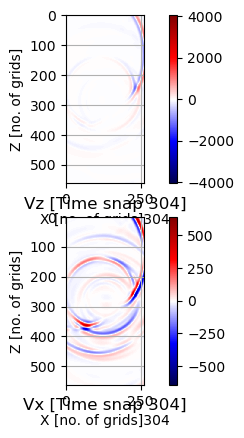
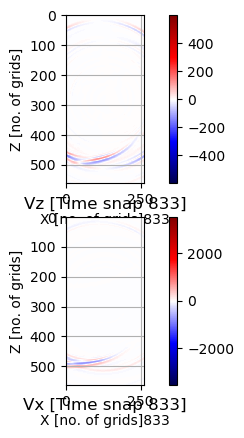
.

diff --git a/scripts/pre_proc_fwi.py b/scripts/pre_proc_fwi.py
@@ -42,12 +42,12 @@ cuda_computation = False # True: computation in GPU, False: in CPU
 # GRID PARAMETERS
 #--------------------------------------------------------------------
 
-x = 15
-z = 30
+x = 30
+z = 60
 
 # Geometric data
 nt = 2500; nz = 601; nx = 301 # grid numbers (adding for PMLs as well)
-dt = 2.35e-5; 
+dt = 4.0e-5; 
 dz = z/(nz-1) #; 
 dx = x/(nx-1) # grid intervals
 
@@ -65,20 +65,19 @@ isurf_top = 0; isurf_bottom = 0; isurf_left = 0; isurf_right = 0
 snap_t1 = 0; snap_t2 = nt-1 # snap in time steps
 snap_z1 = npml_top; snap_z2 = nz-npml_bottom  # snap boundaries z
 snap_x1 = npml_left; snap_x2 = nx-npml_right # snap boundaries x
-snap_dt = 5; snap_dz = 1; snap_dx = 1; # the snap intervals
+snap_dt = 3; snap_dz = 1; snap_dx = 1; # the snap intervals
 
-
+npml_all = 20
 # Taper position
 nz_snap = snap_z2 - snap_z1
 nx_snap = snap_x2 - snap_x1
 
 # taper relative to the total grid
 # t: top, b: bottom, l: left, r: right
-taper_t1 = snap_z1 + np.int32(nz_snap*0.05); taper_t2 = taper_t1 + np.int32(nz_snap*0.1)
-taper_b1 = snap_z2 - np.int32(nz_snap*0.05); taper_b2 = taper_b1 - np.int32(nz_snap*0.1)
-
-taper_l1 = snap_x1 + np.int32(nx_snap*0.05); taper_l2 = taper_l1 + np.int32(nx_snap*0.1)
-taper_r1 = snap_x2 - np.int32(nx_snap*0.05); taper_r2 = taper_r1 - np.int32(nx_snap*0.1)
+taper_t1 = snap_z1 + npml_all; taper_t2 = taper_t1 + npml_all
+taper_b1 = snap_z2 - npml_all; taper_b2 = taper_b1 - npml_all
+taper_l1 = snap_x1 + npml_all; taper_l2 = taper_l1 + npml_all
+taper_r1 = snap_x2 - npml_all; taper_r2 = taper_r1 - npml_all
 
 
 #------------------------------------------------------------------------------
@@ -146,7 +145,7 @@ pml_npower_pml = 2.0
 damp_v_pml = Cp
 rcoef = 0.001
 k_max_pml = 1.0
-freq_pml = 300.0 # PML frequency in Hz
+freq_pml = 200.0 # PML frequency in Hz
 
 # -----------------------------------------------------
 

diff --git a/src/cpu/n_kernel_lib_PSV.cpp b/src/cpu/n_kernel_lib_PSV.cpp
@@ -474,9 +474,9 @@ void fwi_grad2(
             // The time derivatives of the velocity may have to be computed differently
             s4 = ux[iz][ix] * accu_vx[tf][jz][jx] + uz[iz][ix] * accu_vz[tf][jz][jx];
 
-            grad_lam[jz][jx] += snap_dt * dt * s1;
-            grad_mu[jz][jx] += snap_dt * dt * (s3 + s1 + s2);
-            grad_rho[jz][jx] += snap_dt * dt * s4;
+            grad_lam[jz][jx] -= snap_dt * dt * s1;
+            grad_mu[jz][jx] -= snap_dt * dt * (s3 + s1 + s2);
+            grad_rho[jz][jx] -= snap_dt * dt * s4;
             
             jx++;
         }

diff --git a/src/h_simulate_PSV.cpp b/src/h_simulate_PSV.cpp
@@ -180,8 +180,8 @@ void simulate_PSV()
     //read_seismo_src(STF_Z, STF_X, NSRC, NT);
     
     for (int is=0;is<NSRC;is++){
-        wavelet(STF_Z[is], NT, DT, 1.0, h_FREQ_PML, 0.0, 1); // Creating one Ricker wavelet 
-        wavelet(STF_X[is], NT, DT, 0.0, h_FREQ_PML, 0.0, 1); // zero amplitude wavelet
+        wavelet(STF_Z[is], NT, DT, 0.0, h_FREQ_PML, 0.0, 1); // Creating one Ricker wavelet 
+        wavelet(STF_X[is], NT, DT, 1.0, h_FREQ_PML, 0.0, 1); // zero amplitude wavelet
     }
     
     //std::cout << "Error here 4"<<std::endl;

diff --git a/src/cpu/n_simulate_PSV.cpp b/src/cpu/n_simulate_PSV.cpp
@@ -561,7 +561,15 @@ void simulate_fwi_PSV(int nt, int nz, int nx, real dt, real dz, real dx,
             std::cout << "Writing updated material to binary file for ITERATION " << iterstep ;
             write_mat(lam, mu, rho, nz, nx, iterstep);
             std::cout <<" <DONE>"<< std::endl;
+
+            // writing the L2 norm
+            std::cout << "L2 norms: " << std::endl;
+            for (int iL2 = 0; iL2 < iterstep+1; iL2++){
+                std::cout << L2_norm[iL2] << ", " ;
+            }
         }
+
+
         
  
        //

diff --git a/scripts/post_proc.py b/scripts/post_proc.py
@@ -66,7 +66,7 @@ snap_nx = 1 + (snap[4] - snap[5])//snap[8]
 
 if (fwinv):
     print("Plotting material for iteration in fwi")
-    maxiter = 14
+    maxiter = 3
     for ii in range(0,maxiter,1):
         # reading data from csv file
         #mat_dat = read_tensor("./bin/mat.bin", np.float64, (3, ndim[1], ndim[2]))
